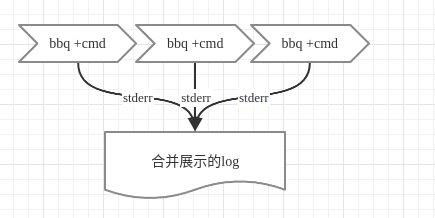
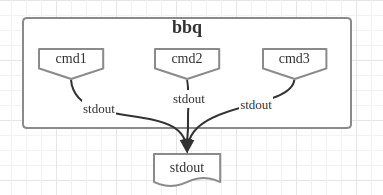
update bbq

Changed region(s): [[0.0, 0.0615, 1.0, 0.9846], [0.0, 0.0, 1.0, 0.0308], [0.201, 0.4923, 0.2298, 0.5231]]

diff --git a/bbq.c b/bbq.c
@@ -1,52 +1,27 @@
 /* Compile:
- * $ gcc -Wall -O6 -ansi -std=c99 -o bbq bbq.c
+ * $ gcc -Wall -O6 -ansi -std=c99 -pthread -o bbq bbq.c
  */
 
 #include <stdio.h>
 #include <string.h>
+#include <pthread.h>
 
 int lineBufferSize = 4096;
 
-int main (int argc, char ** argv) {
-    FILE *stream;
-    extern FILE *popen(); extern int pclose();
-    char* prefix = NULL;
-    int prefixLen = 0;
-    char* cmd = NULL;
+struct Command {
+    char* prefix;
+    char* cmd;
+    FILE* file;
+    pthread_t tid;
+};
 
-    for (int i = 1; i < argc; i++) {
-        if (strcmp (argv[i], "--prefix") == 0 ||
-            strcmp (argv[i], "-p") == 0) {
-            prefix = argv[i + 1];
-            prefixLen = strlen(prefix);
-            if (prefixLen <= 0) {
-                fprintf(stderr, "%s: %s must not be empty.\n", argv[0], argv[i]);
-                return 1;
-            }
-            i++;
-        } else if (argv[i][0] == '-') { // else other option
-            printf ("\007Usage: %s [option ...] [cmd string]\n", argv[0]);
-            printf ("Valid options are:\n");
-            printf ("  -p --prefix            Add prefix for perline\n");
-            printf ("  -h --help --usage      Output this help.\n");
-            return 0;
-        } else {
-            cmd = argv[i];
-            if (cmd == NULL) {
-                fprintf(stderr, "%s: No cmd string argument specified.\n", argv[0]);
-                return 1;
-            }
-        }
-    }
-    if (!(stream = popen(cmd, "r"))) {
-        fprintf(stderr, "%s: Could not open subpipe for writing.\n", argv[0]);
-        return 1;
-    }
-
+void* handleStream(void* data) {
+    struct Command* command = (struct Command*) data;
+    int prefixLen = command->prefix == NULL ? 0 : strlen(command->prefix);
     char buffer[lineBufferSize + 1];
     int i = 0;
     char ch;
-    while ((ch = getc(stream)) != EOF) {
+    while ((ch = getc(command->file)) != EOF) {
         buffer[i++] = ch;
         if (i >= lineBufferSize) {
             buffer[i++] = '\n';
@@ -54,18 +29,60 @@ int main (int argc, char ** argv) {
         }
         if (ch == '\n') {
             if (prefixLen > 0) {
-                fwrite(prefix, 1, prefixLen, stderr);
+                fwrite(command->prefix, 1, prefixLen, stderr);
             }
             fwrite(buffer, 1, i, stderr);
             i = 0;
         }
     }
+    pclose(command->file);
+    return NULL;
+}
 
-    if (fclose(stdout)) {
-        fprintf(stderr, "%s: Could not close standard output.\n",argv[0]);
+int main (int argc, char ** argv) {
+    struct Command commands[argc];
+    int commandSize = 0;
+    commands[commandSize].prefix = NULL;
+    commands[commandSize].cmd = NULL;
+    for (int i = 1; i < argc; i++) {
+        if (strcmp (argv[i], "--prefix") == 0 ||
+            strcmp (argv[i], "-p") == 0) {
+            commands[commandSize].prefix = argv[i + 1];
+            i += 1;
+        } else if (argv[i][0] == '-') { // else other option
+            printf ("\007Usage: %s [-p prefix] cmd1 [-p prefix] cmd2 ...\n", argv[0]);
+            printf ("Valid options are:\n");
+            printf ("  -p --prefix      Add prefix for perline\n");
+            printf ("  -h --help --usage    Output this help.\n");
+            return 0;
+        } else {
+            commands[commandSize].cmd = argv[i];
+            commandSize++;
+            commands[commandSize].prefix = NULL;
+            commands[commandSize].cmd = NULL;
+        }
     }
-    if (pclose(stream)) {
-        fprintf(stderr, "%s: Could not close subpipe.\n", argv[0]);
+    if (commandSize == 0) {
+        fprintf(stderr, "%s: cmd can not be empty.\n", argv[0]);
+        printf ("\007Usage: %s [-p prefix] cmd1 [-p prefix] cmd2 ...\n", argv[0]);
+        return 1;
+    }
+    for (int i = 0; i < commandSize; ++i) {
+        commands[i].file = popen(commands[i].cmd, "r");
+        if (!commands[i].file) {
+            fprintf(stderr, "%s: Could not open subpipe for writing.\n", argv[0]);
+            return 1;
+        }
+    }
+    for (int i = 1; i < commandSize; ++i) {
+        pthread_create(&commands[i].tid, NULL, handleStream, &commands[i]);
+    }
+    handleStream(&commands[0]);
+    for (int i = 1; i < commandSize; ++i) {
+        pthread_join(commands[i].tid, NULL);
+    }
+    if (fclose(stdout)) {
+        fprintf(stderr, "%s: Could not close standard output.\n", argv[0]);
     }
     return(0);
 }

diff --git a/README.md b/README.md
@@ -1,7 +1,8 @@
 # bbq
-执行指定的命令，并将标准输出(stdout)按照标准错误(stderr)打印出来。
+同时指定多个命令，并将每个命令的标准输出(stdout)合并成一个标准输出(stdout)。
+按行合并，因此不会出现不同命令输出到同一行的情况。
 
-当我们上线多台服务器之后，这时候如果要与客户端/三方联调，非常麻烦，因为请求可能落到其中一台。
+当我们上线多台服务器之后，这时候如果要与客户端/三方联调，查看log非常麻烦，因为请求可能落到其中一台。
 如果我们可以同时看到所有log，那就简单多了。
 
 这样的需求，就像烤串一样，用一根竹签，把想要的肉（日志)串起来，同时观察其中的变化！
@@ -10,7 +11,7 @@
 
 # 编译安装
 
-    gcc -Wall -O6 -ansi -std=c99 -o bbq bbq.c
+    gcc -Wall -O6 -ansi -std=c99 -pthread -o bbq bbq.c
     cp bbq /usr/bin/bbq
 
 # 使用方法
@@ -18,8 +19,8 @@
 将线上多台服务器同时查看
 
     bbq -p [10.1.28.144] "ssh 'tail -F /home/work/log/api/app.log'" \
-    | bbq -p [10.1.30.20] "ssh 10.1.30.20 'tail -F /home/work/log/api/app.log'" \
-    | bbq -p [10.1.32.140] "ssh 10.1.32.140 'tail -F /home/work/log/api/app.log'"
+      -p [10.1.30.20] "ssh 10.1.30.20 'tail -F /home/work/log/api/app.log'" \
+      -p [10.1.32.140] "ssh 10.1.32.140 'tail -F /home/work/log/api/app.log'"
 
 打印log的效果如下：
 
@@ -30,9 +31,5 @@
 
 # 原理图
 ![image](process.png)
-
-这里输出到屏幕使用的是标准错误stderr，因此如果想将整合的log保存到文件，需要使用标准错误重定向，类似
-
-    bbq xxx | bbq xxx | bbq xxx 2>1.log
 
 # have fun
